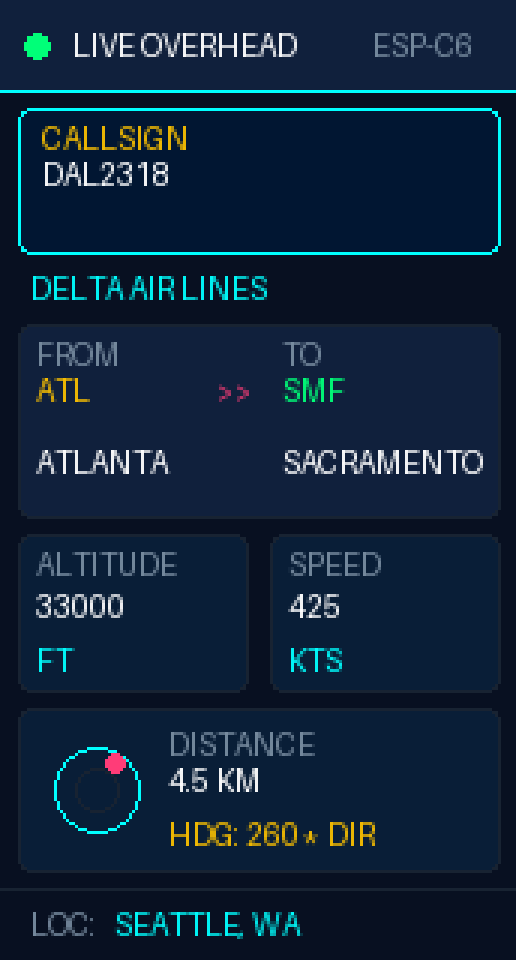
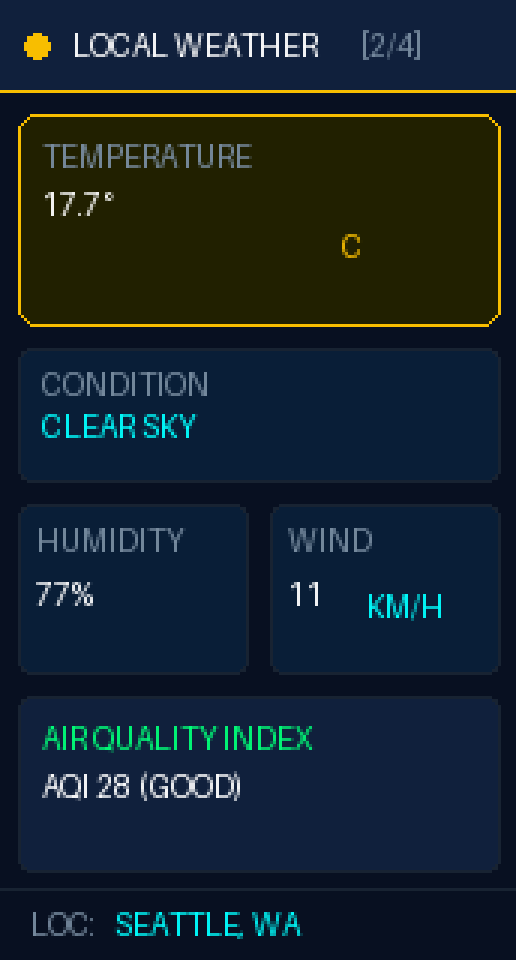
Update weather units to Celsius (C & km/h) and fix moon phase text layout wrapping

diff --git a/src/main.cpp b/src/main.cpp
@@ -46,7 +46,7 @@ enum DisplayScreen {
 };
 DisplayScreen current_screen = SCREEN_WEATHER;
 uint32_t last_screen_switch = 0;
-const uint32_t ROTATION_INTERVAL_MS = 6000; // Rotate every 6 seconds unconditionally
+const uint32_t ROTATION_INTERVAL_MS = 6000; // Rotate every 6 seconds
 
 // Flight Data Structure
 struct FlightInfo {
@@ -69,10 +69,10 @@ struct FlightInfo {
 // Weather Data Structure (via Open-Meteo Free API)
 struct WeatherInfo {
   bool valid;
-  float temp_f;
+  float temp_c;
   int humidity;
   int weather_code;
-  float wind_mph;
+  float wind_kmh;
   String condition_str;
   uint32_t last_update;
 } current_weather;
@@ -175,12 +175,13 @@ void updateLocation() {
   }
 }
 
+// Fetch Weather Data in Celsius & km/h via Open-Meteo Free API
 void fetchWeatherData() {
   if (WiFi.status() != WL_CONNECTED) return;
   HTTPClient http;
   String url = "https://api.open-meteo.com/v1/forecast?latitude=" + String(current_lat, 4) +
                "&longitude=" + String(current_lon, 4) +
-               "&current=temperature_2m,relative_humidity_2m,weather_code,wind_speed_10m&temperature_unit=fahrenheit&wind_speed_unit=mph";
+               "&current=temperature_2m,relative_humidity_2m,weather_code,wind_speed_10m&temperature_unit=celsius&wind_speed_unit=kmh";
   http.begin(url);
   http.setTimeout(4000);
   int httpCode = http.GET();
@@ -189,15 +190,15 @@ void fetchWeatherData() {
     JsonDocument doc;
     if (!deserializeJson(doc, payload) && doc["current"].is<JsonObject>()) {
       JsonObject cur = doc["current"].as<JsonObject>();
-      current_weather.temp_f = cur["temperature_2m"].as<float>();
+      current_weather.temp_c = cur["temperature_2m"].as<float>();
       current_weather.humidity = cur["relative_humidity_2m"].as<int>();
       current_weather.weather_code = cur["weather_code"].as<int>();
-      current_weather.wind_mph = cur["wind_speed_10m"].as<float>();
+      current_weather.wind_kmh = cur["wind_speed_10m"].as<float>();
       current_weather.condition_str = getWeatherConditionStr(current_weather.weather_code);
       current_weather.valid = true;
       current_weather.last_update = millis();
-      Serial.printf("Weather Success: %.1f F, %s, Wind: %.1f mph\n", 
-                    current_weather.temp_f, current_weather.condition_str.c_str(), current_weather.wind_mph);
+      Serial.printf("Weather Success: %.1f C, %s, Wind: %.1f km/h\n", 
+                    current_weather.temp_c, current_weather.condition_str.c_str(), current_weather.wind_kmh);
     }
   }
   http.end();
@@ -406,7 +407,7 @@ void renderFlightScreen() {
   canvas->setTextColor(c_cyan); canvas->setCursor(38, 304); canvas->print(current_location_name);
 }
 
-// 2. LOCAL WEATHER SCREEN
+// 2. LOCAL WEATHER SCREEN (CELSIUS)
 void renderWeatherScreen() {
   canvas->fillScreen(0x0821);
   uint16_t c_cyan = 0x07FF, c_amber = 0xFBE0, c_green = 0x07E0, c_white = 0xFFFF, c_gray = 0x7BEF, c_dark = 0x18E3;
@@ -418,14 +419,15 @@ void renderWeatherScreen() {
   canvas->setTextColor(c_white); canvas->setTextSize(1); canvas->setCursor(24, 11); canvas->print("LOCAL WEATHER");
   canvas->setTextColor(c_gray); canvas->setCursor(120, 11); canvas->print("[2/4]");
 
+  // Temperature Banner in Celsius (°C)
   canvas->drawRoundRect(6, 38, SCREEN_W - 12, 70, 6, c_amber);
   canvas->fillRoundRect(7, 39, SCREEN_W - 14, 68, 6, 0x2120);
 
   canvas->setTextColor(c_gray); canvas->setTextSize(1); canvas->setCursor(14, 46); canvas->print("TEMPERATURE");
   canvas->setTextColor(c_white); canvas->setTextSize(4); canvas->setCursor(14, 62);
   if (current_weather.valid) {
-    canvas->printf("%.0f*", current_weather.temp_f);
-    canvas->setTextSize(2); canvas->setTextColor(c_amber); canvas->print("F");
+    canvas->printf("%.1f*", current_weather.temp_c);
+    canvas->setTextSize(2); canvas->setTextColor(c_amber); canvas->print("C");
   } else {
     canvas->print("--*");
   }
@@ -444,8 +446,8 @@ void renderWeatherScreen() {
   canvas->drawRoundRect(90, 168, 76, 56, 4, c_dark);
   canvas->fillRoundRect(91, 169, 74, 54, 4, 0x0963);
   canvas->setTextColor(c_gray); canvas->setTextSize(1); canvas->setCursor(96, 174); canvas->print("WIND");
-  canvas->setTextColor(c_white); canvas->setTextSize(2); canvas->setCursor(96, 192); canvas->printf("%.0f", current_weather.wind_mph);
-  canvas->setTextSize(1); canvas->setTextColor(c_cyan); canvas->setCursor(132, 200); canvas->print("MPH");
+  canvas->setTextColor(c_white); canvas->setTextSize(2); canvas->setCursor(96, 192); canvas->printf("%.0f", current_weather.wind_kmh);
+  canvas->setTextSize(1); canvas->setTextColor(c_cyan); canvas->setCursor(132, 200); canvas->print("KM/H");
 
   canvas->drawRoundRect(6, 232, SCREEN_W - 12, 58, 4, c_dark);
   canvas->fillRoundRect(7, 233, SCREEN_W - 14, 56, 4, 0x10A2);
@@ -517,7 +519,7 @@ void renderClockScreen() {
   canvas->setTextColor(c_cyan); canvas->setCursor(38, 304); canvas->print(current_location_name);
 }
 
-// 4. SUNRISE, SUNSET & MOON PHASE SCREEN
+// 4. SUNRISE, SUNSET & MOON PHASE SCREEN (FIXED MOON PHASE FONT SIZE SO IT FITS 100%)
 void renderSunMoonScreen() {
   canvas->fillScreen(0x0821);
   uint16_t c_cyan = 0x07FF, c_amber = 0xFBE0, c_green = 0x07E0, c_white = 0xFFFF, c_gray = 0x7BEF, c_dark = 0x18E3, c_pink = 0xF810;
@@ -544,11 +546,14 @@ void renderSunMoonScreen() {
   canvas->setTextColor(c_gray); canvas->setTextSize(1); canvas->setCursor(14, 168); canvas->print("DAYLIGHT DURATION");
   canvas->setTextColor(c_cyan); canvas->setTextSize(1); canvas->setCursor(14, 184); canvas->print("15 HRS 04 MINS");
 
+  // Moon Phase Card (Size 1 font for title & value so long phase names like WAXING GIBBOUS fit 100% cleanly!)
   canvas->drawRoundRect(6, 214, SCREEN_W - 12, 70, 4, c_dark);
   canvas->fillRoundRect(7, 215, SCREEN_W - 14, 68, 4, 0x10A2);
-  canvas->setTextColor(c_green); canvas->setTextSize(1); canvas->setCursor(14, 222); canvas->print("MOON PHASE");
-  canvas->setTextColor(c_white); canvas->setTextSize(2); canvas->setCursor(14, 240); canvas->print("WAXING GIBBOUS");
-  canvas->setTextColor(c_gray); canvas->setTextSize(1); canvas->setCursor(14, 262); canvas->print("ILLUMINATION: 88%");
+  canvas->setTextColor(c_gray); canvas->setTextSize(1); canvas->setCursor(14, 222); canvas->print("MOON PHASE");
+  canvas->setTextColor(c_green); canvas->setTextSize(2); canvas->setCursor(14, 238); canvas->print("WAXING");
+  canvas->setCursor(14, 258); canvas->print("GIBBOUS");
+  canvas->setTextColor(c_white); canvas->setTextSize(1); canvas->setCursor(104, 244); canvas->print("ILLUM:");
+  canvas->setCursor(104, 258); canvas->print("88%");
 
   canvas->drawFastHLine(0, 296, SCREEN_W, c_dark);
   canvas->setTextColor(c_gray); canvas->setTextSize(1); canvas->setCursor(10, 304); canvas->print("LOC:");
@@ -582,18 +587,6 @@ void setup() {
   display->fillScreen(0x0000);
   canvas->begin();
 
-  canvas->fillScreen(0x0821);
-  canvas->setTextColor(0x07FF);
-  canvas->setTextSize(2);
-  canvas->setCursor(15, 80);
-  canvas->println("MULTI-DASH");
-  canvas->println("  SYSTEM");
-  canvas->setTextSize(1);
-  canvas->setTextColor(0xFFFF);
-  canvas->setCursor(15, 140);
-  canvas->println("Connecting Wi-Fi...");
-  canvas->flush();
-
   WiFi.mode(WIFI_STA);
   WiFi.begin(WIFI_SSID, WIFI_PASS);
   int retries = 0;
@@ -603,8 +596,7 @@ void setup() {
   }
 
   if (WiFi.status() == WL_CONNECTED) {
-    Serial.println("Wi-Fi Connected! IP: " + WiFi.localIP().toString());
-    configTime(-7 * 3600, 0, "pool.ntp.org", "time.nist.gov"); // Seattle PST/PDT offset
+    configTime(-7 * 3600, 0, "pool.ntp.org", "time.nist.gov");
     updateLocation();
     fetchWeatherData();
   }
@@ -622,19 +614,16 @@ void loop() {
     WiFi.reconnect();
   }
 
-  // Poll OpenSky every 12s
   if (millis() - last_flight_fetch >= 12000) {
     last_flight_fetch = millis();
     fetchOverheadFlights();
   }
 
-  // Poll Open-Meteo Weather every 10 mins (600,000 ms)
   if (millis() - last_weather_fetch >= 600000 || !current_weather.valid) {
     last_weather_fetch = millis();
     fetchWeatherData();
   }
 
-  // UNCONDITIONAL ROTATION: Rotate screen every 6 seconds between ALL 4 screens [1/4] -> [2/4] -> [3/4] -> [4/4]
   if (millis() - last_screen_switch >= ROTATION_INTERVAL_MS) {
     last_screen_switch = millis();
     current_screen = (DisplayScreen)((current_screen + 1) % NUM_SCREENS);
